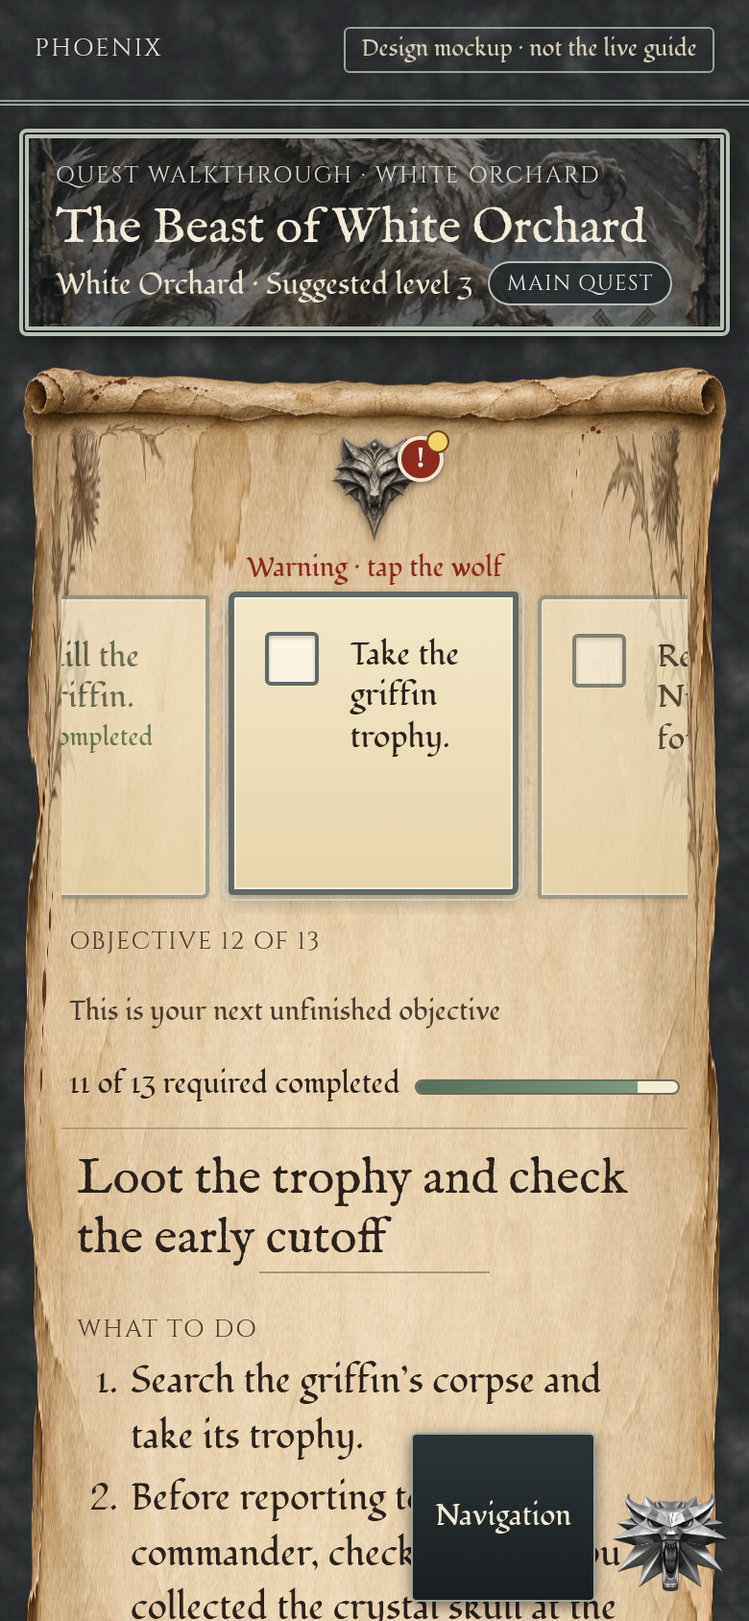
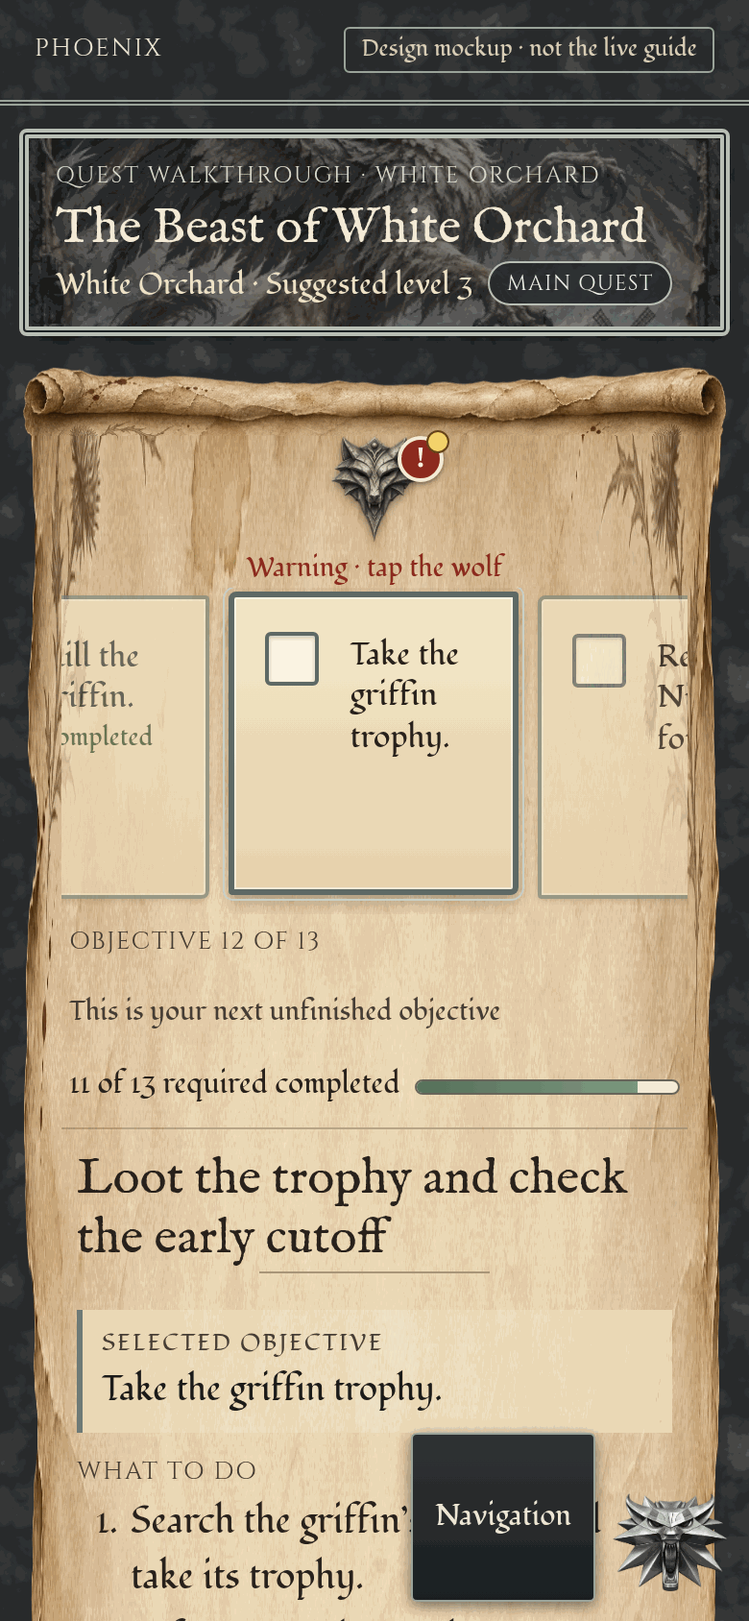
Issue #4 mockups: apply Cmdr decisions Q1-Q3 (2026-11-17)
Q1 A: name the selected objective above the shared actions.
Q2 B: Nearby group in the optional dropdown (WO detours; Velen pyres, Verdun, innkeeper, notices).
Q3 B: Got it / acknowledged warning states, simulated in memory only.
Re-rendered portrait PNGs (quantised), added warning-ack states, README decisions and Q3 storage note.
No dist, test, rollback or release-list changes. Manifest regenerated.

diff --git a/design/issue-4/prototype/mockup-data.js b/design/issue-4/prototype/mockup-data.js
@@ -185,7 +185,7 @@ window.MOCKUP_DATA={
     "explanation": [
      "Tomira provides the buckthorn lead, while Mislav provides the patrol location. Finding the herb early can skip the herbalist objective in-game; do not mark a conversation complete unless it happened."
     ],
-    "optional": [],
+    "nearby": [],
     "info": [],
     "warning": null
    },
@@ -201,11 +201,12 @@ window.MOCKUP_DATA={
     "explanation": [
      "On Death’s Bed is a separate quest with its own potion and hand-in. Open its entry for the instructions; the griffin quest does not require completing it."
     ],
-    "optional": [
+    "nearby": [
      {
       "label": "At the cottage · On Death’s Bed",
       "target": "On Death’s Bed",
-      "kind": "quest"
+      "kind": "quest",
+      "source": "white-orchard.js stage 2 detours"
      }
     ],
     "info": [],
@@ -225,7 +226,7 @@ window.MOCKUP_DATA={
     "explanation": [
      "Helping and talking afterward provides additional experience and an optional personal story. Skipping the dogs still lets you continue the required investigation."
     ],
-    "optional": [],
+    "nearby": [],
     "info": [
      {
       "title": "If you help",
@@ -248,16 +249,18 @@ window.MOCKUP_DATA={
      "Follow the Alchemy tutorial if enabled, and check your inventory if tutorials are off. The basic Thunderbolt recipe uses 1 dwarven spirit, 2 cortinarius and 1 endrega embryo; the quest supplies the tutorial preparation. Equip the potion if you plan to use it.",
      "Repair your silver sword, equip food or a healing potion you already have, and leave room to dodge. This encounter does not require a particular build or crafted witcher set."
     ],
-    "optional": [
+    "nearby": [
      {
       "label": "Willis’s forge · repairs and access requirements",
       "target": "Willis’s forge",
-      "kind": "service"
+      "kind": "service",
+      "source": "white-orchard.js stage 4 detours"
      },
      {
       "label": "Optional gear route · Viper diagrams",
       "target": "Scavenger Hunt: Viper School Gear",
-      "kind": "quest"
+      "kind": "quest",
+      "source": "white-orchard.js stage 4 detours"
      }
     ],
     "info": [],
@@ -276,7 +279,7 @@ window.MOCKUP_DATA={
      "Keep Quen available if it helps your playstyle. Move sideways from the approach of a diving attack, then close only after the landing. Aard can help interrupt the beast at close range; avoid spending all your stamina when you need a defensive Sign.",
      "Do not stay under its wings swinging continuously. Back away, watch the next attack, and take a few safe hits. The second location is still part of the same hunt, not another quest."
     ],
-    "optional": [],
+    "nearby": [],
     "info": [],
     "warning": null
    },
@@ -291,7 +294,7 @@ window.MOCKUP_DATA={
     "explanation": [
      "Check that the buckthorn objective is tracked and search the bottom inside its marked area. Watch your breath meter and surface between searches; carrying the herb is what advances this branch."
     ],
-    "optional": [],
+    "nearby": [],
     "info": [],
     "warning": null
    },
@@ -306,7 +309,7 @@ window.MOCKUP_DATA={
     "explanation": [
      "Inspect the bloodied ground and other highlighted evidence, then locate the outgoing tracks. Follow the trail across the broken bridge and up the slope rather than returning to the hunter."
     ],
-    "optional": [],
+    "nearby": [],
     "info": [],
     "warning": null
    },
@@ -321,11 +324,12 @@ window.MOCKUP_DATA={
     "explanation": [
      "The investigation establishes why the surviving griffin began attacking people: the soldiers killed its mate. This explains the hunt without changing the required confrontation."
     ],
-    "optional": [
+    "nearby": [
      {
       "label": "Optional nearby stop · Broken Bridge Place of Power",
       "target": "Broken Bridge Place of Power",
-      "kind": "discovery"
+      "kind": "discovery",
+      "source": "white-orchard.js stage nest detours"
      }
     ],
     "info": [
@@ -350,7 +354,7 @@ window.MOCKUP_DATA={
     "explanation": [
      "Check the crossbow in your ranged slot and follow the on-screen firing prompt. Keep your silver sword equipped for the griffin. You can delay the ready response while sorting your loadout."
     ],
-    "optional": [],
+    "nearby": [],
     "info": [],
     "warning": null
    },
@@ -365,15 +369,17 @@ window.MOCKUP_DATA={
     "explanation": [
      "Return to the body and inspect its loot. Killing the griffin and taking the quest trophy are separate actions; keep the trophy until the report is complete."
     ],
-    "optional": [
+    "nearby": [
      {
       "label": "Check crystal skull entry and location",
       "target": "Yennefer’s crystal skull",
-      "kind": "discovery"
+      "kind": "discovery",
+      "source": "white-orchard.js stage trophy detours"
      }
     ],
     "info": [],
     "warning": {
+     "id": "poi-4",
      "short": "Optional missable: collect the crystal skull before completing the griffin quest.",
      "sections": [
       [
@@ -407,9 +413,10 @@ window.MOCKUP_DATA={
     "explanation": [
      "Published reference values: accepting gives 300 XP plus 150 crowns in GameBanshee, GosuNoob and Guides4Gamers; witcher.tools instead lists 250 crowns. Refusing is listed as 500 XP with no coin. Some guides report differing XP. Current Xbox payout remains unconfirmed. Both replies continue the story."
     ],
-    "optional": [],
+    "nearby": [],
     "info": [],
     "warning": {
+     "id": "wo.q-beast.stage-payment",
      "short": "The payment reply is timed. Decide before the dialogue timer expires; the exact reward comparison is behind Consequences below.",
      "sections": [],
      "source": "white-orchard.js stage payment warning"
@@ -581,7 +588,7 @@ window.MOCKUP_DATA={
     "explanation": [
      "Check equipment condition and replenish supplies before taking the road."
     ],
-    "optional": [],
+    "nearby": [],
     "info": [],
     "warning": null
    },
@@ -599,7 +606,22 @@ window.MOCKUP_DATA={
     "explanation": [
      "Open each nearby activity’s owner hub below. Taking a detour does not advance or complete the main quest."
     ],
-    "optional": [],
+    "nearby": [
+     {
+      "label": "Funeral Pyres",
+      "target": "Funeral Pyres",
+      "kind": "side quest",
+      "context": "Fits the road: the priest west of Mulbrydale offers it. Completion is recorded in its own hub.",
+      "source": "velen-nilf-ui.js nearbyCard"
+     },
+     {
+      "label": "At the Mercy of Strangers",
+      "target": "At the Mercy of Strangers",
+      "kind": "encounter",
+      "context": "Fits the road: the riverbank on the approach to the inn. Its decision is recorded in its own hub.",
+      "source": "velen-nilf-ui.js nearbyCard"
+     }
+    ],
     "info": [],
     "warning": null
    },
@@ -615,7 +637,22 @@ window.MOCKUP_DATA={
     "explanation": [
      "You can read the notice board and inspect the innkeeper’s services while at this stop. Collecting a notice is not completing its contract."
     ],
-    "optional": [],
+    "nearby": [
+     {
+      "label": "Innkeeper",
+      "target": "Innkeeper",
+      "kind": "service",
+      "context": "At the Inn at the Crossroads: food, drink and a shop conversation.",
+      "source": "velen-nilf-ui.js nearbyCard"
+     },
+     {
+      "label": "Collected notices",
+      "target": "Collected notices",
+      "kind": "notices",
+      "context": "Notices from the inn board, kept for later. Collecting a notice is not completing it.",
+      "source": "velen-nilf-ui.js nearbyCard"
+     }
+    ],
     "info": [
      {
       "title": "What the inn choice changes",
@@ -625,6 +662,7 @@ window.MOCKUP_DATA={
      }
     ],
     "warning": {
+     "id": "velen.nilf.stage-3",
      "short": "Before answering the soldiers: this conversation affects the later approach to Crow’s Perch. It does not block the main story.",
      "sections": [],
      "source": "velen-data-r18.js stage 3 warning"
@@ -644,7 +682,7 @@ window.MOCKUP_DATA={
     "explanation": [
      "Reading the notes finishes this quest and provides two investigative leads. Mark completion separately in the owner hub when you have done this in the game."
     ],
-    "optional": [],
+    "nearby": [],
     "info": [],
     "warning": null
    }

diff --git a/design/issue-4/prototype/walkthrough.js b/design/issue-4/prototype/walkthrough.js
@@ -7,8 +7,10 @@ const qk=params.get('q')==='velen'?'velen':'wo',Q=D[qk],state=params.get('state'
 // Sample progress: isolated, ephemeral, representative. Nothing here is read from or written to the browser.
 const SAMPLE={wo:{selected:'trophy',done:['herbalist','buckthorn','ask','follow','site','tracks','nest','vesemir','prepare','field','kill']},
               velen:{selected:'ask',done:['travel','inn']}};
-const s={selected:params.get('sel')||SAMPLE[qk].selected,done:new Set(SAMPLE[qk].done),warnOpen:state==='warning',warnSeen:state==='warning'};
+// Q3 (Cmdr, 2026-11-17): a remembered "Got it" per warning. Simulated here with an in-memory Set; production needs a new storage key (see README).
+const s={selected:params.get('sel')||SAMPLE[qk].selected,done:new Set(SAMPLE[qk].done),warnOpen:state==='warning'||state==='warning-ack',ack:new Set()};
 if(state==='completed')s.done.add(s.selected);
+if(state==='warning-ack'){const o=Q.objectives.find(o=>o.key===s.selected),w=o&&Q.stages[o.stage].warning;if(w)s.ack.add(w.id);}
 const art=p=>'../../../dist/'+p;
 const el=(tag,cls,text)=>{const n=document.createElement(tag);if(cls)n.className=cls;if(text!=null)n.textContent=text;return n;};
 const primary=Q.objectives.filter(o=>!o.optional&&!o.conditional);         // selector boxes = required journal objectives
@@ -26,17 +28,24 @@ function selector(){
   // Wolf pointer: fixed above the centre of the rail. Carries the selected objective's warning, if any.
   const ww=el('div','wolf-wrap'),wolf=el('button','wolf');wolf.type='button';
   const wi=el('img');wi.src=art('visual-art/wolf-pointer.webp');wi.alt='';wolf.append(wi);
-  if(warn){const b=el('span','wolf-badge'+(s.warnSeen?'':' unread'),'!');wolf.append(b);
+  const acked=warn&&s.ack.has(warn.id);
+  if(warn){const b=el('span','wolf-badge'+(acked?' acked':' unread'),acked?'✓':'!');wolf.append(b);
     wolf.setAttribute('aria-expanded',String(s.warnOpen));wolf.setAttribute('aria-controls','warning-panel');
-    wolf.setAttribute('aria-label',(s.warnOpen?'Hide':'Show')+' warning for this objective'+(s.warnSeen?'':' (unread)'));
-    wolf.onclick=()=>{s.warnOpen=!s.warnOpen;s.warnSeen=true;render(true);};}
+    wolf.setAttribute('aria-label',(s.warnOpen?'Hide':'Show')+' warning for this objective'+(acked?' (acknowledged)':' (not yet acknowledged)'));
+    wolf.onclick=()=>{s.warnOpen=!s.warnOpen;render(true);};}
   else{wolf.disabled=true;wolf.setAttribute('aria-label','No warning for this objective');}
-  ww.append(wolf,el('p','wolf-caption',warn?(s.warnOpen?'Warning · tap the wolf to close':'Warning · tap the wolf'):''));
+  ww.append(wolf,el('p','wolf-caption'+(acked?' acked':''),warn?((acked?'Warning, acknowledged':'Warning')+(s.warnOpen?' · tap the wolf to close':' · tap the wolf')):''));
   wrap.append(ww);
   if(warn&&s.warnOpen){const p=el('div','warning-panel');p.id='warning-panel';p.setAttribute('role','region');p.setAttribute('aria-label','Warning');
     p.append(el('h3','',warn.short));
+    const ackRow=el('div','ack-row');
+    if(acked){ackRow.append(el('span','ack-done','✓ Acknowledged. The wolf will not mark this warning as new again.'));
+      const u=el('button','ack-btn secondary','Mark as new');u.type='button';u.onclick=()=>{s.ack.delete(warn.id);render(true);};ackRow.append(u);}
+    else{const g=el('button','ack-btn','Got it');g.type='button';g.setAttribute('aria-label','Got it: acknowledge this warning');g.onclick=()=>{s.ack.add(warn.id);render(true);};
+      ackRow.append(g,el('span','ack-hint','Clears the new-warning dot for this warning. Does not change progress.'));}
+    p.append(ackRow);
     if(warn.sections.length){const dl=el('dl');for(const [k,v] of warn.sections)dl.append(el('dt','',k),el('dd','',v));p.append(dl);}
-    p.append(el('p','provenance','Shown for: '+sel.label+' Opening this panel does not change progress.'));wrap.append(p);}
+    p.append(el('p','provenance','Shown for: '+sel.label+' Mockup: acknowledgment is held in memory only.'));wrap.append(p);}
   const rail=el('div','rail');rail.setAttribute('role','listbox');rail.setAttribute('aria-label','Objectives, swipe or tap to choose');
   for(const o of primary){const b=el('div','box'+(o.key===sel.key?' selected':'')+(s.done.has(o.key)?' done':''));b.dataset.key=o.key;
     b.setAttribute('role','option');b.setAttribute('aria-selected',String(o.key===sel.key));b.tabIndex=o.key===sel.key?0:-1;
@@ -65,17 +74,24 @@ function selector(){
 function reading(){
   const sel=primary.find(o=>o.key===s.selected)||primary[0],st=Q.stages[sel.stage];const r=el('section','reading');r.setAttribute('aria-live','polite');
   r.append(el('h2','',st.title));if(st.place)r.append(el('p','place',st.place));r.append(el('span','ornament'));
+  // Q1 (Cmdr, 2026-11-17): keep the shared stage text and name the selected objective above the actions.
+  const fo=el('div','for-objective');fo.append(el('span','label','SELECTED OBJECTIVE'),el('strong','',sel.label));r.append(fo);
   r.append(el('h3','','WHAT TO DO'));const ol=el('ol','actions');for(const a of st.actions)ol.append(el('li','',a));r.append(ol);
   if(st.choices.length){r.append(el('h3','','CHOICE'));const ul=el('ul','choices');for(const c of st.choices)ul.append(el('li','',c));r.append(ul);}
   if(st.explanation.length){r.append(el('h3','','WHY'));const ex=el('div','explain');for(const p of st.explanation)ex.append(el('p','',p));r.append(ex);}
   // Related optional tasks: optional journal objectives mapped to this stage, then this stage's optional entries.
   const opt=el('details','row');opt.id='optional';if(state==='optional')opt.open=true;
-  const optObjs=Q.objectives.filter(o=>o.optional&&o.stage===sel.stage),total=optObjs.length+st.optional.length;
+  const optObjs=Q.objectives.filter(o=>o.optional&&o.stage===sel.stage),near=st.nearby,total=optObjs.length+near.length;
   const sum=el('summary');sum.append('Related optional tasks ',el('span','count','· '+total));opt.append(sum);const ob=el('div','row-body');
+  ob.append(el('h3','','OPTIONAL OBJECTIVES'));
   for(const o of optObjs){const it=el('div','opt-item'),c=el('button','check');c.type='button';c.append(el('span','',s.done.has(o.key)?'✓':''));c.setAttribute('aria-label','Mark optional objective complete: '+o.label);c.onclick=()=>{s.done.has(o.key)?s.done.delete(o.key):s.done.add(o.key);render(true);};
     const t=el('div');t.append(el('span','kind','Optional journal objective'),o.label);it.append(c,t);ob.append(it);}
-  for(const d of st.optional){const it=el('div','opt-item'),t=el('div');const a=el('a','link-entry',d.label+' →');a.href='#';a.onclick=e=>e.preventDefault();t.append(el('span','kind','Optional entry · '+d.target),a);it.append(el('span','check'),t);ob.append(it);}
-  if(!total)ob.append(el('p','empty','No optional task is linked to this objective.'));
+  if(!optObjs.length)ob.append(el('p','empty','No optional objective is linked to this objective.'));
+  // Q2 (Cmdr, 2026-11-17): nearby activities also go here, labelled "Nearby".
+  ob.append(el('h3','','NEARBY'));
+  for(const d of near){const it=el('div','opt-item nearby'),t=el('div');const a=el('a','link-entry',d.label+' →');a.href='#';a.onclick=e=>e.preventDefault();
+    t.append(el('span','kind','Nearby · '+d.kind),a);if(d.context)t.append(el('p','context',d.context));it.append(el('span','pin','◆'),t);ob.append(it);}
+  if(!near.length)ob.append(el('p','empty','No nearby activity is recorded for this objective.'));
   opt.append(ob);r.append(opt);
   const inf=el('details','row');inf.id='info';if(state==='info')inf.open=true;const is=el('summary');is.append('Information');inf.append(is);const ib=el('div','row-body');
   for(const b of st.info){ib.append(el('h3','',b.title.toUpperCase()));for(const p of b.paragraphs)ib.append(el('p','',p));}

diff --git a/design/issue-4/prototype/walkthrough.css b/design/issue-4/prototype/walkthrough.css
@@ -98,3 +98,17 @@ details.row .count{font-size:14px;color:var(--ink-soft)}
 .route-note{flex-basis:100%;font-size:14px;color:#4a3f30;font-style:italic}
 /* Landscape: keep the column clear of the floating navigation controls on the right. */
 @media (orientation:landscape) and (max-height:500px){main{margin-left:max(16px,calc(50% - 400px));margin-right:190px}}
+/* r3: Cmdr decisions Q1-Q3 (2026-11-17) */
+.for-objective{margin:10px 0 2px;padding:8px 10px;border-left:3px solid #6f7b77;background:#efe3c6aa}
+.for-objective .label{display:block;font-size:12.5px;letter-spacing:.08em;color:var(--ink-soft)}
+.for-objective strong{font-weight:normal;font-size:18px;color:#1f1a14}
+.wolf-badge.acked{background:#4f5d58}
+.wolf-caption.acked{color:#3f4a46}
+.ack-row{display:flex;flex-wrap:wrap;align-items:center;gap:8px 12px;margin:10px 0 4px}
+.ack-btn{min-height:44px;min-width:96px;padding:0 16px;border-radius:4px;border:1px solid #c9c2b0;background:linear-gradient(#2c3634,#1b2322);color:#f3ecdc;font:inherit;font-size:16px;cursor:pointer}
+.ack-btn.secondary{background:#f5e4dc;color:#5a1d14;border-color:#a5483b}
+.ack-hint{font-size:13.5px;color:#5a2a22;flex:1 1 150px}
+.ack-done{font-size:15px;color:#22402c;flex:1 1 100%}
+.opt-item .pin{flex:0 0 44px;height:44px;display:grid;place-items:center;color:#5f6a66;font-size:14px}
+.opt-item .context{margin:2px 0 0;font-size:14.5px;line-height:1.35;color:var(--ink-soft)}
+.row-body h3+.opt-item{border-top:0}

diff --git a/design/issue-4/README.md b/design/issue-4/README.md
@@ -2,11 +2,40 @@
 
 This is a design mockup only. It is not wired into `dist/`. It does not change tests, rollback, the release file list, storage or quest content, and nothing here is published.
 
+## Decisions (Cmdr-decided 2026-11-17)
+
+These answer question batch 1 and are applied to the prototype and mockups.
+
+- **Q1: A.** Keep the shared reading text, and name the selected objective above the actions. A "Selected objective" line now sits between the section title and "What to do", in both WO and Velen.
+- **Q2: B.** Nearby activities also go in the "Related optional tasks" dropdown, labelled "Nearby". The dropdown has two groups: "Optional objectives" (optional journal objectives) and "Nearby".
+  - WO: the stage detours from `white-orchard.js`.
+  - Velen: Funeral Pyres, At the Mercy of Strangers, Innkeeper and Collected notices. The names come from `velen-data-r18.js`; the context lines are the hub card text in `velen-nilf-ui.js`.
+  - Placing each Velen entry on a reading stage by its place (road: stage 2; inn: stage 3) is an LT proposal.
+  - Stages with nothing recorded say so.
+- **Q3: B.** Warnings get a remembered "Got it".
+  - The panel shows "Got it" until it is acknowledged. After that, the wolf badge shows a check instead of the new-warning dot, and the panel shows "Acknowledged" with a "Mark as new" control (an LT addition so it can be undone).
+  - Acknowledgment never changes progress. In the mockup it lives in an in-memory Set and is never stored.
+
+### Q3 implementation note (not part of these mockups)
+
+A real "Got it" needs its own scoped change and review:
+
+- **New storage key**, proposed: `phoenix.guide.warnings-ack.v1`. It is separate from progress and save keys.
+- **Versioned record**, for example `{v:1, acks:{<warningId>: {at:<ISO time>, text:<hash of the warning text>}}}`. The text hash lets a changed warning show as new again. Warning ids are the catalog ids (for example `poi-4`), or a stable stage id where no catalog entry exists (for example `velen.nilf.stage-3`).
+- **Read and write failure handling**, consistent with the QA6 save guard:
+  - Never overwrite data that cannot be read or parsed.
+  - Treat an unreadable record as "not acknowledged" for display only.
+  - Report failed writes without retry loops.
+  - Keep an unknown future version read-only.
+- **Cache tags and file pins:** new or changed files need the usual cache-tag bumps and release-list and manifest updates.
+- **Its own tests and review.** None of this is implemented here: `dist/`, tests and real storage are untouched.
+
 ## How to view
 
-- Open `prototype/index.html?q=wo|velen&state=default|warning|optional|info|completed` from a local static server at the repo root. The prototype loads fonts and art from `../../../dist/` as read-only.
+- Open `prototype/index.html?q=wo|velen&state=default|warning|warning-ack|optional|info|completed` from a local static server at the repo root. The prototype loads fonts and art from `../../../dist/` as read-only.
 - `tools/extract-data.cjs` reads the shipped data files (read-only, in a vm sandbox) and writes `prototype/mockup-data.js`.
 - `tools/render.cjs` produces `mockups/*.png` at 390x844 and 844x390, device scale 2, using headless Chrome.
+- To keep the repo small, the portrait PNGs are saved as 256-colour dithered images (rendered at scale 2, then quantised with Pillow). The landscape PNGs are from the first pass and are lossless.
 - Sample progress lives in memory only (`walkthrough.js`, `SAMPLE`). The prototype never reads or writes localStorage.
 
 ## States rendered
@@ -14,11 +43,12 @@ This is a design mockup only. It is not wired into `dist/`. It does not change t
 | File | State |
 |---|---|
 | `mockups/wo-portrait-default.png`, `velen-portrait-default.png` | Selected objective, warning collapsed, unread dot |
-| `*-portrait-warning.png` | Warning expanded inside the selector, beneath the wolf |
-| `*-portrait-optional.png` | Related optional tasks dropdown open |
+| `*-portrait-warning.png` | Warning expanded inside the selector, beneath the wolf, not yet acknowledged ("Got it" shown) |
+| `*-portrait-warning-ack.png` | Same warning after "Got it": acknowledged badge (no new-warning dot) and a "Mark as new" control |
+| `*-portrait-optional.png` | Related optional tasks dropdown open: "Optional objectives" group, then "Nearby" group |
 | `*-portrait-info.png` | Information dropdown open (WO shows objective "nest", because the trophy stage has no extra information) |
 | `*-portrait-completed.png` | Selected objective ticked; selection stays put; "Next unfinished" appears |
-| `*-landscape-default.png` | Landscape check, 844x390 |
+| `*-landscape-default.png` | Landscape check, 844x390 (not re-rendered for the 2026-11-17 decisions; the changes sit below the fold or inside the expanded warning) |
 
 Sample: WO selects "Take the griffin trophy." (objective 12 of 13, 11 completed). Velen selects "Ask about the agent called Hendrik..." (objective 3 of 8, 2 completed).
 
@@ -44,7 +74,7 @@ Sample: WO selects "Take the griffin trophy." (objective 12 of 13, 11 completed)
 Velen renders through the same `walkthrough.js`, with no Velen-specific code paths.
 
 **Velen-only features left out (proposals, need Cmdr approval):**
-- P1. Nearby activities rail (Funeral Pyres, Wandering in the Dark / John Verdun, Innkeeper services, collected notices).
+- P1. Nearby activities rail. After Q2 B, its content (Funeral Pyres, At the Mercy of Strangers / John Verdun, Innkeeper, Collected notices) now appears in the shared Nearby group. Only a separate Velen rail is still a proposal.
 - P2. Route-choice cards (fight the baron's men vs go straight to Heatherton) as a separate control. The mockup uses the WO "Story & correction controls" row and an Information note instead.
 - P3. The Velen hub console / region dashboard.
 
@@ -54,8 +84,8 @@ Velen renders through the same `walkthrough.js`, with no Velen-specific code pat
 
 - `model` = `{quest, region, level, kind, art, objectives[], stages{}, questInfo[]}`
 - Each `objectives[]` entry = `{key, id, label, optional, conditional, stage}`. Selector boxes = `!optional && !conditional`.
-- Each `stages{}` entry = `{title, place, actions[], choices[], explanation[], optional[], info[], warning}`, where `warning` = `{short, sections[[label, text]]}`.
-- `progressAdapter` = `{isDone(id), toggle(id), lastViewed()/setLastViewed(key)}`. Production would back this with the existing progression engine and storage, unchanged. The mockup backs it with an in-memory Set.
+- Each `stages{}` entry = `{title, place, actions[], choices[], explanation[], nearby[], info[], warning}`, where `nearby[]` = `{label, target, kind, context?, source}` and `warning` = `{id, short, sections[[label, text]]}`.
+- `progressAdapter` = `{isDone(id), toggle(id), lastViewed()/setLastViewed(key)}`, plus a separate `warningAckAdapter` = `{isAcked(warningId), ack(warningId), unack(warningId)}` (Q3). Production would back this with the existing progression engine and storage, unchanged. The mockup backs it with an in-memory Set.
 - Region modules supply the model through an adapter like `tools/extract-data.cjs`. The renderer stays the same.
 
 ## Objective to reading-stage mapping (LT proposal; source: read from the shipped data files)
@@ -77,12 +107,12 @@ Velen renders through the same `walkthrough.js`, with no Velen-specific code pat
 
 Unmapped or awkward cases:
 - WO stage "1" (Take the griffin contract) has no journal objective. It is not reachable from the selector in the mockup.
-- Shared stages: several objectives show the same reading text (WO patrol x3, WO stage 3, WO stage 4, Velen stage 3, Velen stage 4).
+- Shared stages: several objectives show the same reading text (WO patrol x3, WO stage 3, WO stage 4, Velen stage 3, Velen stage 4). Resolved by Q1 A: the shared text stays, and the selected objective is named above the actions.
 - Velen "Defeat the baron's men" counts only on the fight route. With the route undecided the selector shows 8 boxes and a "route-dependent, not counted yet" note. The data's 9 (fight route) and 5 (direct route) totals are not shown. No membership or denominator was changed.
 - The Velen stage 3 warning only has short text. It has no consequence, cutoff or prevention fields, so the panel is shorter than WO's.
 
 ## Warning unread / acknowledgment
-The mockup shows a yellow dot on the wolf badge until the panel is opened once. The state lives in memory, per page view. Persisting acknowledgment would need a storage change, which is out of scope. See question 3.
+Decided as Q3 B (see Decisions). The yellow new-warning dot stays until "Got it". Opening the panel alone does not clear it.
 
-## Open questions (batch of three)
-See the draft PR description.
+## Open questions
+Batch 1 was answered on 2026-11-17 (see Decisions). Batch 2 is in the draft PR description.
